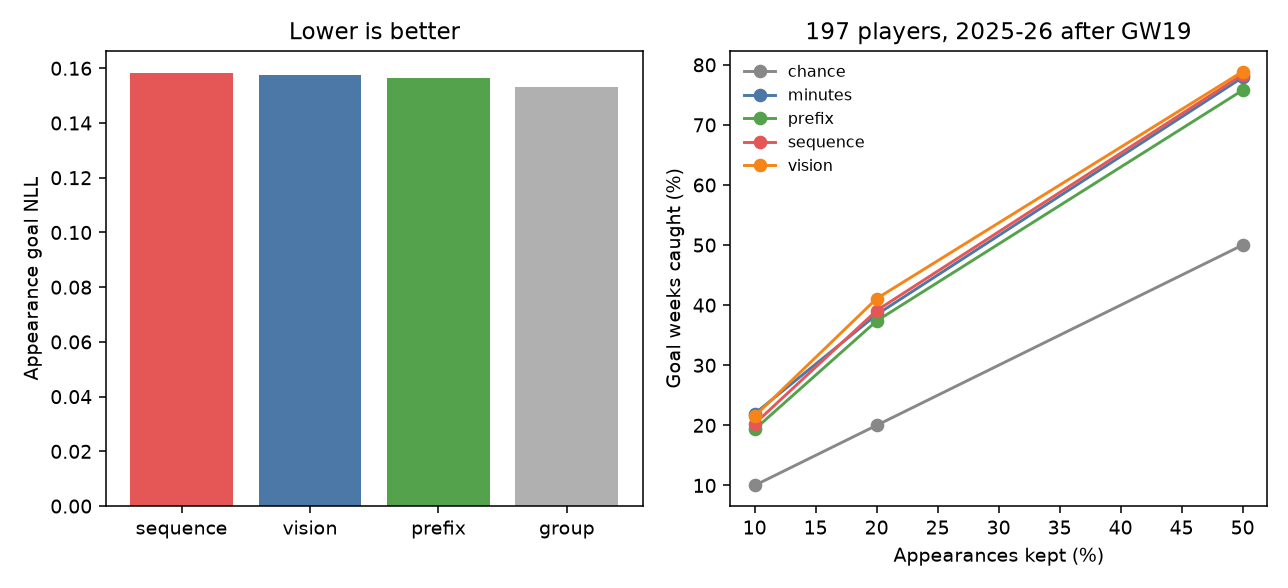
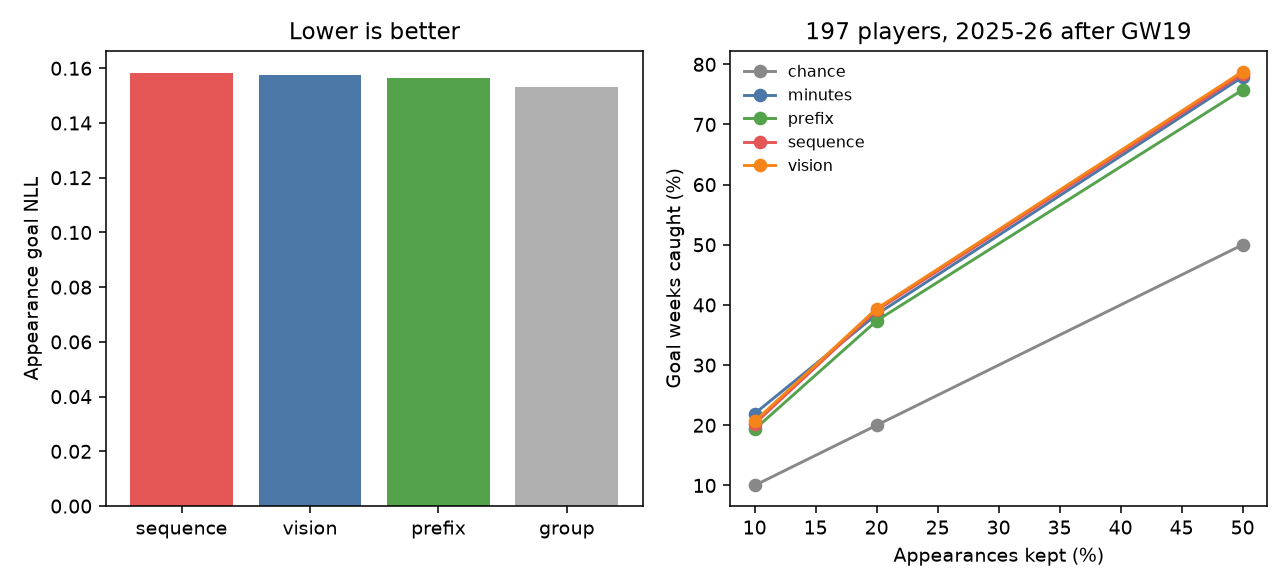
Drop the match header from the vision card.
The picture is player rows only: minutes, goals, assists, and a position color. Retraining the 16:08 procedure puts vision at 20.6% top 10% on the all-minutes exam, under the 21.5% it scored with the header painted.

diff --git a/src/models/flashcard_squad_trial.py b/src/models/flashcard_squad_trial.py
@@ -3,9 +3,8 @@
 Each card is a club-season. Rows are teammates. Columns are the club's fixtures.
 Minutes stay visible. Goals and assists after the cut are hidden. Each fixture
 is coupled to the other squad: their positions, minutes, and the events already
-revealed. Hidden events stay masked on both sides. The header still carries
-venue, prior goals conceded, and the share of regular starters on the pitch.
-Clean sheets are not a target.
+revealed. Hidden events stay masked on both sides. The picture is the player
+rows only. Clean sheets are not a target.
 
 The sequence reader gets those values as numbers. The vision reader gets the
 same grid painted as pixels. Both attend across the squad and across the
@@ -45,8 +44,8 @@ BAND_H = 8
 CELL_W = 4
 PLAYER_BANDS = 5
 PLAYER_H = BAND_H * PLAYER_BANDS
-HEADER_H = PLAYER_H
-IMG_H = HEADER_H + ROWS * PLAYER_H
+HEADER_H = 0
+IMG_H = ROWS * PLAYER_H
 IMG_W = COLS * CELL_W
 MASK_ID = 4
 D = 32
@@ -608,11 +607,10 @@ def _bar(img: np.ndarray, y0: int, x0: int, pixels: int, color: tuple[int, int, 
 
 
 def render_grid(view: dict[str, np.ndarray]) -> np.ndarray:
-    """Paint one card. Labels and names are not in the picture.
+    """Paint one card. Labels, names, and match summaries are not in the picture.
 
     Each player cell carries the minute count across sixteen pixels, then goals,
-    assists, and a position color. The conceded header uses the full eight-pixel
-    band, so rates that shared a height before are separate.
+    assists, and a position color.
     """
     img = np.full((IMG_H, IMG_W, 3), 255, dtype=np.uint8)
     for col in range(COLS):
@@ -620,27 +618,6 @@ def render_grid(view: dict[str, np.ndarray]) -> np.ndarray:
         if view["column_on"][col] < 0.5:
             _hatch(img, 0, x0, IMG_H)
             continue
-        _bar(img, 0, x0, BAND_H, HOME_C if view["home"][col] > 0.5 else AWAY_C)
-        if view["concede_missing"][col] > 0.5:
-            _hatch(img, BAND_H, x0, BAND_H)
-        else:
-            pixels = int(round(min(float(view["concede"][col]), 3.0) / 3.0 * BAND_H))
-            _bar(img, BAND_H, x0, pixels, CONCEDE_C)
-        if view["regulars_missing"][col] > 0.5:
-            _hatch(img, BAND_H * 2, x0, BAND_H)
-        else:
-            pixels = int(round(float(view["regulars"][col]) * BAND_H))
-            _bar(img, BAND_H * 2, x0, pixels, REG_C)
-        if view["own_hist_missing"][col] > 0.5:
-            _hatch(img, BAND_H * 3, x0, BAND_H)
-        else:
-            pixels = int(round(min(float(view["own_hist"][col]), 3.0) / 3.0 * BAND_H))
-            _bar(img, BAND_H * 3, x0, pixels, OWN_HIST_C)
-        if view["opp_hist_missing"][col] > 0.5:
-            _hatch(img, BAND_H * 4, x0, BAND_H)
-        else:
-            pixels = int(round(min(float(view["opp_hist"][col]), 3.0) / 3.0 * BAND_H))
-            _bar(img, BAND_H * 4, x0, pixels, OPP_HIST_C)
         for row in range(ROWS):
             y = HEADER_H + row * PLAYER_H
             if view["position"][row] < 0:
@@ -862,11 +839,10 @@ class SquadVision(nn.Module):
         opp: dict[str, torch.Tensor] | None = None,
     ) -> tuple[torch.Tensor, torch.Tensor]:
         batch = images.shape[0]
-        blocks = images.reshape(batch, 3, ROWS + 1, PLAYER_H, COLS, CELL_W)
-        blocks = blocks.permute(0, 4, 2, 1, 3, 5).reshape(batch, COLS, ROWS + 1, -1)
+        blocks = images.reshape(batch, 3, ROWS, PLAYER_H, COLS, CELL_W)
+        blocks = blocks.permute(0, 4, 2, 1, 3, 5).reshape(batch, COLS, ROWS, -1)
         tokens = self.patch(blocks)
-        header = tokens[:, :, 0, :]
-        cells = tokens[:, :, 1:, :].permute(0, 2, 1, 3) + header[:, None, :, :]
+        cells = tokens.permute(0, 2, 1, 3)
         return self.couple(
             cells, row_pad, column_on < 0.5, position, minutes, matchup, club, opponent, opp
         )
@@ -1393,7 +1369,7 @@ def write_report(payload: dict[str, object], path) -> None:
         f"Train: {', '.join(TRAIN_SEASONS)}. Test: {TEST_SEASON}.",
         f"Cards: train {payload['n_train']}, test {payload['n_test']}. One card is a club-season.",
         f"Grid: {ROWS} players by {COLS} fixtures. Cut after gameweek {CUT_GW} for every club.",
-        "Minutes, venue, opponent goals conceded, and regulars-on-the-pitch stay visible.",
+        "The picture is player rows only. Minutes stay visible.",
         "Goals and assists after the cut are hidden. The segment is predicted in one pass.",
         f"Wall clock: {payload['seconds']:.0f} seconds on CPU.",
         "",
@@ -1419,8 +1395,8 @@ def write_report(payload: dict[str, object], path) -> None:
             f"forward {payload['role_rate']['goal'][3]:.1%}."
         ),
         "Sequence: the minute count, presence, position, and the visible bars as tokens.",
-        "Vision: the same grid painted in pixels. Minutes use sixteen pixels, with no",
-        "60-minute step, plus a position color and an eight-pixel opponent conceded bar.",
+        "Vision: the player rows painted in pixels. Minutes use sixteen pixels, with no",
+        "60-minute step, plus goals, assists, and a position color.",
         "Both then attend across the 40 rows, across the other squad in that fixture,",
         "and across all 40 columns.",
         "The personal baseline is the player's visible bars pulled toward the position-and-minutes rate",

diff --git a/tests/test_flashcard_squad_trial.py b/tests/test_flashcard_squad_trial.py
@@ -11,6 +11,7 @@ from src.models.flashcard_squad_trial import (
     BAND_H,
     CELL_W,
     COLS,
+    CONCEDE_C,
     GOALS_C,
     HEADER_H,
     IMG_H,
@@ -171,6 +172,7 @@ class SquadCutTests(unittest.TestCase):
         view["concede_missing"][0] = 0.0
         view["concede_missing"][1] = 0.0
         image = render_grid(view)
+        self.assertEqual(image.shape[0], ROWS * PLAYER_H)
         minutes_band = image[HEADER_H : HEADER_H + 2 * BAND_H]
         self.assertFalse(np.array_equal(minutes_band[:, 0:CELL_W], minutes_band[:, CELL_W : 2 * CELL_W]))
         self.assertTrue(np.any(np.all(minutes_band[:, 0:CELL_W] == MINUTES_C, axis=-1)))
@@ -178,8 +180,8 @@ class SquadCutTests(unittest.TestCase):
         pos_y = HEADER_H + 4 * BAND_H
         self.assertTrue(np.array_equal(image[pos_y, 0], np.array(POS_C[2])))
         self.assertTrue(np.array_equal(image[pos_y + PLAYER_H, 0], np.array(POS_C[3])))
-        concede = image[BAND_H : BAND_H * 2]
-        self.assertFalse(np.array_equal(concede[:, 0:CELL_W], concede[:, CELL_W : 2 * CELL_W]))
+        for color in (OWN_HIST_C, OPP_HIST_C, CONCEDE_C):
+            self.assertFalse(np.any(np.all(image == color, axis=-1)))
         torch.manual_seed(0)
         batch = _one(view)
         goals, assists = SquadVision(dropout=0.0)(
@@ -283,12 +285,8 @@ class SquadCutTests(unittest.TestCase):
         self.assertGreater(float(high_p), 0.6)
         self.assertLess(float(low_p), 0.3)
         image = render_grid(apply_cut(strong[0], league, 0, clubs))
-        promoted = render_grid(apply_cut(_history_card("Promoted", "Strong", goals=0), league, 0, clubs))
-        own_band = image[BAND_H * 3 : BAND_H * 4, 0:CELL_W]
-        self.assertTrue(np.any(np.all(own_band == OWN_HIST_C, axis=-1)))
-        self.assertFalse(np.any(np.all(promoted[BAND_H * 3 : BAND_H * 4, 0:CELL_W] == OWN_HIST_C, axis=-1)))
-        opp_band = image[BAND_H * 4 : BAND_H * 5, 0:CELL_W]
-        self.assertTrue(np.any(np.all(opp_band == OPP_HIST_C, axis=-1)))
+        self.assertFalse(np.any(np.all(image == OWN_HIST_C, axis=-1)))
+        self.assertFalse(np.any(np.all(image == OPP_HIST_C, axis=-1)))
 
     def test_the_other_squad_keeps_hidden_events_masked(self) -> None:
         home, opp = _facing("2023-24", defenders=90, goals=0)

diff --git a/reports/flashcard_squad_trial.md b/reports/flashcard_squad_trial.md
@@ -6,9 +6,9 @@ Exploratory. One held-out season. Not a gated score comparison.
 Train: 2022-23, 2023-24, 2024-25. Test: 2025-26.
 Cards: train 60, test 20. One card is a club-season.
 Grid: 40 players by 40 fixtures. Cut after gameweek 19 for every club.
-Minutes, venue, opponent goals conceded, and regulars-on-the-pitch stay visible.
+The picture is player rows only. Minutes stay visible.
 Goals and assists after the cut are hidden. The segment is predicted in one pass.
-Wall clock: 88 seconds on CPU.
+Wall clock: 85 seconds on CPU.
 
 ## Readers
 
@@ -24,10 +24,10 @@ and the goals and assists already shown. The same cut masks both sides.
 Over the previous five games the reader sees the opponent's goals scored
 and conceded. Over the previous three it sees how many minutes their
 leading scorer played. A hidden column stops at the cut.
-Learned vision probability of a goal bar on a hidden appearance: goalkeeper 0.1%, defender 2.4%, midfielder 5.4%, forward 11.2%.
+Learned vision probability of a goal bar on a hidden appearance: goalkeeper 0.1%, defender 2.5%, midfielder 5.7%, forward 11.7%.
 Sequence: the minute count, presence, position, and the visible bars as tokens.
-Vision: the same grid painted in pixels. Minutes use sixteen pixels, with no
-60-minute step, plus a position color and an eight-pixel opponent conceded bar.
+Vision: the player rows painted in pixels. Minutes use sixteen pixels, with no
+60-minute step, plus goals, assists, and a position color.
 Both then attend across the 40 rows, across the other squad in that fixture,
 and across all 40 columns.
 The personal baseline is the player's visible bars pulled toward the position-and-minutes rate
@@ -40,7 +40,7 @@ Every recorded appearance is included, at whatever minutes. Lower negative log-l
 | reader | goal nll | assist nll | goal P | goal rate | expected goals | actual goals |
 |---|---:|---:|---:|---:|---:|---:|
 | sequence | 0.158 | 0.163 | 0.051 | 0.045 | 28.70 | 25.05 |
-| vision | 0.158 | 0.162 | 0.047 | 0.045 | 26.10 | 25.05 |
+| vision | 0.158 | 0.162 | 0.049 | 0.045 | 27.53 | 25.05 |
 | prefix | 0.157 | 0.159 | 0.048 | 0.045 | 27.39 | 25.05 |
 | group | 0.153 | 0.156 | 0.050 | 0.045 | 28.20 | 25.05 |
 
@@ -49,12 +49,12 @@ Every recorded appearance is included, at whatever minutes. Lower negative log-l
 Players with a goal and at least eight appearances after the cut: 197.
 An appearance is any recorded minutes, including a zero-minute bench row.
 A random appearance in that group is a goal 12.4% of the time.
-The vision model's top 10% of appearances are goals 21.3% of the time.
+The vision model's top 10% of appearances are goals 20.1% of the time.
 
 | rank by | top 10% | top 20% | top 50% |
 |---|---:|---:|---:|
 | sequence | 0.203 | 0.391 | 0.784 |
-| vision | 0.215 | 0.411 | 0.789 |
+| vision | 0.206 | 0.394 | 0.788 |
 | prefix | 0.193 | 0.374 | 0.758 |
 | group | 0.200 | 0.378 | 0.758 |
 | minutes | 0.219 | 0.384 | 0.779 |
@@ -73,12 +73,12 @@ the appearances.
 
 | reader | channel | actual bars | drawn bars | covered | on a real week |
 |---|---|---:|---:|---:|---:|
-| vision | goals | 459 | 467.4 | 14.9% | 14.6% |
+| vision | goals | 459 | 493.4 | 15.8% | 14.7% |
 | sequence | goals | 459 | 521.1 | 17.0% | 15.0% |
 | prefix | goals | 459 | 489.8 | 17.0% | 15.9% |
 | group | goals | 459 | 501.9 | 15.9% | 14.5% |
 | random | goals | 459 | 459.0 | 20.4% | 20.4% |
-| vision | assists | 445 | 407.5 | 10.1% | 11.1% |
+| vision | assists | 445 | 436.2 | 10.9% | 11.1% |
 | sequence | assists | 445 | 451.8 | 11.5% | 11.3% |
 | prefix | assists | 445 | 443.6 | 11.6% | 11.6% |
 | group | assists | 445 | 453.7 | 10.4% | 10.2% |
@@ -96,26 +96,26 @@ model's probability of a goal bar on the hidden appearances.
 
 | revealed | reader | channel | actual bars | drawn bars | covered | on a real week | GK | FWD |
 |---|---|---|---:|---:|---:|---:|---:|---:|
-| 80% | vision | goals | 199 | 192.9 | 16.0% | 16.5% | 0.1% | 11.2% |
-| 80% | vision | assists | 192 | 169.1 | 9.2% | 10.5% | 0.1% | 11.2% |
+| 80% | vision | goals | 199 | 202.9 | 16.6% | 16.3% | 0.1% | 11.9% |
+| 80% | vision | assists | 192 | 183.8 | 9.8% | 10.3% | 0.1% | 11.9% |
 | 80% | sequence | goals | 199 | 235.6 | 17.2% | 14.5% | 0.1% | 12.6% |
 | 80% | sequence | assists | 192 | 205.9 | 11.6% | 10.8% | 0.1% | 12.6% |
 | 80% | prefix | goals | 199 | 202.7 | 17.9% | 17.6% | 0.1% | 12.9% |
 | 80% | prefix | assists | 192 | 192.2 | 12.3% | 12.3% | 0.1% | 12.9% |
-| 60% | vision | goals | 360 | 373.6 | 15.4% | 14.9% | 0.1% | 11.2% |
-| 60% | vision | assists | 351 | 323.2 | 10.5% | 11.4% | 0.1% | 11.2% |
+| 60% | vision | goals | 360 | 390.5 | 16.1% | 14.9% | 0.1% | 11.6% |
+| 60% | vision | assists | 351 | 343.1 | 11.2% | 11.5% | 0.1% | 11.6% |
 | 60% | sequence | goals | 360 | 417.2 | 17.2% | 14.8% | 0.1% | 11.8% |
 | 60% | sequence | assists | 351 | 370.4 | 12.9% | 12.2% | 0.1% | 11.8% |
 | 60% | prefix | goals | 360 | 384.6 | 16.0% | 15.0% | 0.1% | 13.2% |
 | 60% | prefix | assists | 351 | 366.5 | 12.4% | 11.8% | 0.1% | 13.2% |
-| 40% | vision | goals | 544 | 572.8 | 16.0% | 15.2% | 0.1% | 11.6% |
-| 40% | vision | assists | 531 | 518.5 | 10.6% | 10.9% | 0.1% | 11.6% |
+| 40% | vision | goals | 544 | 590.2 | 16.5% | 15.2% | 0.1% | 11.9% |
+| 40% | vision | assists | 531 | 538.0 | 11.2% | 11.0% | 0.1% | 11.9% |
 | 40% | sequence | goals | 544 | 597.7 | 16.6% | 15.1% | 0.0% | 11.3% |
 | 40% | sequence | assists | 531 | 540.5 | 11.4% | 11.2% | 0.0% | 11.3% |
 | 40% | prefix | goals | 544 | 602.1 | 16.8% | 15.2% | 0.1% | 13.2% |
 | 40% | prefix | assists | 531 | 552.1 | 11.8% | 11.3% | 0.1% | 13.2% |
-| 20% | vision | goals | 730 | 738.1 | 15.2% | 15.1% | 0.1% | 11.1% |
-| 20% | vision | assists | 707 | 647.6 | 10.7% | 11.6% | 0.1% | 11.1% |
+| 20% | vision | goals | 730 | 778.2 | 16.1% | 15.1% | 0.1% | 11.7% |
+| 20% | vision | assists | 707 | 695.0 | 11.4% | 11.6% | 0.1% | 11.7% |
 | 20% | sequence | goals | 730 | 734.4 | 15.0% | 14.9% | 0.1% | 10.6% |
 | 20% | sequence | assists | 707 | 642.9 | 10.2% | 11.2% | 0.1% | 10.6% |
 | 20% | prefix | goals | 730 | 775.8 | 16.0% | 15.1% | 0.1% | 13.4% |
@@ -134,26 +134,26 @@ is where that shift should show.
 
 | revealed | group | prior goals/game | actual bars | drawn bars | forward goal rate |
 |---|---|---:|---:|---:|---:|
-| 80% | Man Utd | 1.36 | 14 | 10.6 | 7.0% |
-| 80% | established | 1.53 | 172 | 170.4 | 12.0% |
-| 80% | promoted | 1.12 | 27 | 26.2 | 7.5% |
-| 80% | Man Utd vs promoted |  |  |  | 6.6% |
-| 80% | Man Utd vs established |  |  |  | 7.0% |
-| 60% | Man Utd | 1.36 | 27 | 20.4 | 6.1% |
-| 60% | established | 1.53 | 317 | 325.6 | 12.0% |
-| 60% | promoted | 1.12 | 43 | 47.6 | 7.5% |
-| 60% | Man Utd vs promoted |  |  |  | 7.1% |
-| 60% | Man Utd vs established |  |  |  | 6.0% |
-| 40% | Man Utd | 1.36 | 41 | 29.8 | 7.2% |
-| 40% | established | 1.53 | 478 | 495.4 | 12.4% |
-| 40% | promoted | 1.12 | 66 | 74.4 | 7.7% |
-| 40% | Man Utd vs promoted |  |  |  | 6.9% |
-| 40% | Man Utd vs established |  |  |  | 7.3% |
-| 20% | Man Utd | 1.36 | 54 | 37.8 | 7.2% |
-| 20% | established | 1.53 | 637 | 634.0 | 12.0% |
-| 20% | promoted | 1.12 | 93 | 93.0 | 7.1% |
-| 20% | Man Utd vs promoted |  |  |  | 5.8% |
-| 20% | Man Utd vs established |  |  |  | 7.3% |
+| 80% | Man Utd | 1.36 | 14 | 10.8 | 6.9% |
+| 80% | established | 1.53 | 172 | 180.7 | 12.6% |
+| 80% | promoted | 1.12 | 27 | 28.4 | 8.1% |
+| 80% | Man Utd vs promoted |  |  |  | 8.6% |
+| 80% | Man Utd vs established |  |  |  | 6.7% |
+| 60% | Man Utd | 1.36 | 27 | 20.1 | 6.0% |
+| 60% | established | 1.53 | 317 | 337.8 | 12.4% |
+| 60% | promoted | 1.12 | 43 | 50.8 | 8.0% |
+| 60% | Man Utd vs promoted |  |  |  | 8.8% |
+| 60% | Man Utd vs established |  |  |  | 5.8% |
+| 40% | Man Utd | 1.36 | 41 | 29.6 | 7.2% |
+| 40% | established | 1.53 | 478 | 507.6 | 12.7% |
+| 40% | promoted | 1.12 | 66 | 78.2 | 8.1% |
+| 40% | Man Utd vs promoted |  |  |  | 8.7% |
+| 40% | Man Utd vs established |  |  |  | 7.1% |
+| 20% | Man Utd | 1.36 | 54 | 39.0 | 7.5% |
+| 20% | established | 1.53 | 637 | 666.7 | 12.5% |
+| 20% | promoted | 1.12 | 93 | 99.2 | 7.6% |
+| 20% | Man Utd vs promoted |  |  |  | 8.1% |
+| 20% | Man Utd vs established |  |  |  | 7.5% |
 
 Promoted sides in 2025-26, absent from the previous season: Leeds, Burnley, Sunderland.
 
@@ -161,10 +161,10 @@ Forwards at 40% revealed, one club at a time.
 
 | club | prior goals/game | actual bars | drawn bars | forward goal rate |
 |---|---:|---:|---:|---:|
-| Man City | 2.25 | 38 | 33.0 | 37.6% |
-| Arsenal | 2.07 | 34 | 38.1 | 10.0% |
-| Liverpool | 2.07 | 35 | 44.7 | 14.1% |
-| Man Utd | 1.36 | 41 | 28.4 | 7.2% |
-| Leeds | 1.18 | 26 | 24.4 | 8.5% |
-| Burnley | 1.05 | 19 | 24.6 | 5.5% |
-| Sunderland | 0.00 | 21 | 22.2 | 10.5% |
+| Man City | 2.25 | 38 | 34.7 | 38.8% |
+| Arsenal | 2.07 | 34 | 38.8 | 10.4% |
+| Liverpool | 2.07 | 35 | 45.5 | 14.1% |
+| Man Utd | 1.36 | 41 | 28.6 | 7.2% |
+| Leeds | 1.18 | 26 | 25.1 | 8.8% |
+| Burnley | 1.05 | 19 | 26.9 | 5.8% |
+| Sunderland | 0.00 | 21 | 23.9 | 11.2% |

diff --git a/reports/goal_hit_log.md b/reports/goal_hit_log.md
@@ -41,6 +41,8 @@ The flash-card GRU was trained on the player card and scored on log-loss and sea
 | 8 Nov 2026, 16:08 | squad sequence, opponent form | squad card, all minutes | 20.3% | 39.1% | 78.4% |
 | 8 Nov 2026, 16:08 | squad vision, opponent form | squad card, all minutes | 21.5% | 41.1% | 78.9% |
 | 8 Nov 2026, 17:15 | squad sequence, paired gameweeks | squad card, all minutes | 18.1% | 35.1% | 71.1% |
+| 8 Nov 2026, 18:14 | squad sequence, opponent form | squad card, all minutes | 20.3% | 39.1% | 78.4% |
+| 8 Nov 2026, 18:14 | squad vision, player rows only | squad card, all minutes | 20.6% | 39.4% | 78.8% |
 
 Best on the player card: minutes, 11.4%. Best on the squad card: squad vision with the marked chart, 13.1%. Best on the squad card with every appearance counted: squad vision with squad coupling, 24.7%.
 
@@ -125,3 +127,9 @@ The 17:15 run on 8 Nov trains the sequence reader on a pair of clubs. Each colum
 On the all-minutes exam the top 10% is 18.1%. Goal remainders from gameweek 1: at 80% revealed, 199 actual and 238.8 drawn, 11.3% covered, 9.4% on a real week; at 20% revealed, 730 actual and 886.4 drawn, 11.2% covered, 9.2% on a real week. A goalkeeper's hidden appearance is a goal bar at 1.9% when 80% is revealed and at 1.8% when 20% is revealed. A forward is at 12.9% and 12.7%.
 
 Assist remainders: at 80% revealed, 192 actual and 223.4 drawn, 8.3% covered, 7.1% on a real week; at 20% revealed, 707 actual and 823.9 drawn, 7.9% covered, 6.8% on a real week.
+
+## Player rows only
+
+The 18:14 run on 8 Nov uses the 16:08 training procedure and removes the five header rows from the picture: venue, opponent goals conceded, regulars, earlier-season goals per game, and earlier-season goals conceded per game. Each player row is minutes, goals, assists, and a position color. The numeric match-up and the other squad stay. Sequence is unchanged, and its top 10% reproduces at 20.3%.
+
+Vision's top 10% on the all-minutes exam is 20.6%. With the header still painted, the same procedure scored 21.5%. The best line on this exam stays the 15:17 squad-coupling vision at 24.7%. Goal remainders from gameweek 1, vision: at 80% revealed, 199 actual and 202.9 drawn, 16.6% covered, 16.3% on a real week; at 20% revealed, 730 actual and 778.2 drawn, 16.1% covered, 15.1% on a real week. A goalkeeper is at 0.1% and a forward at 11.7%.
